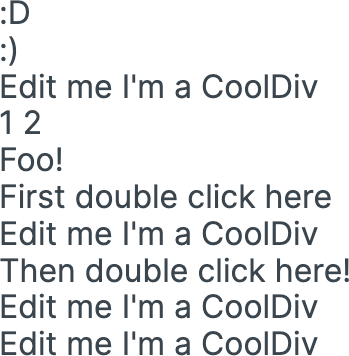
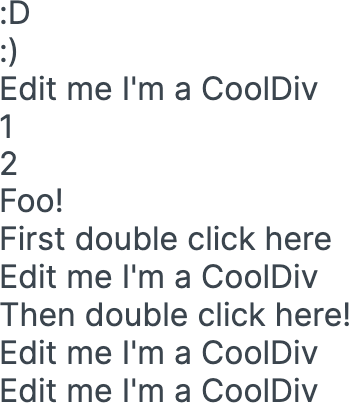
[ecu] Edit text on component App

diff --git a/app/src/App.tsx b/app/src/App.tsx
@@ -44,7 +44,7 @@ function App(props: AppPropsType) {
       </Div>
       <Text data-ecu="1AZTVHUQn7:1">:)</Text>
       <CoolDiv />
-      <Text data-ecu="1AZTVHUQn7:2">{'1\n2'}</Text>
+      <Text data-ecu="1AZTVHUQn7:2">{'1\n2\n3'}</Text>
       <Text data-ecu="1AZTVHUQn7:3">Foo!</Text>
       <Text data-ecu="1AZTVHUQn7:4">First double click here</Text>
       <CoolDiv />
